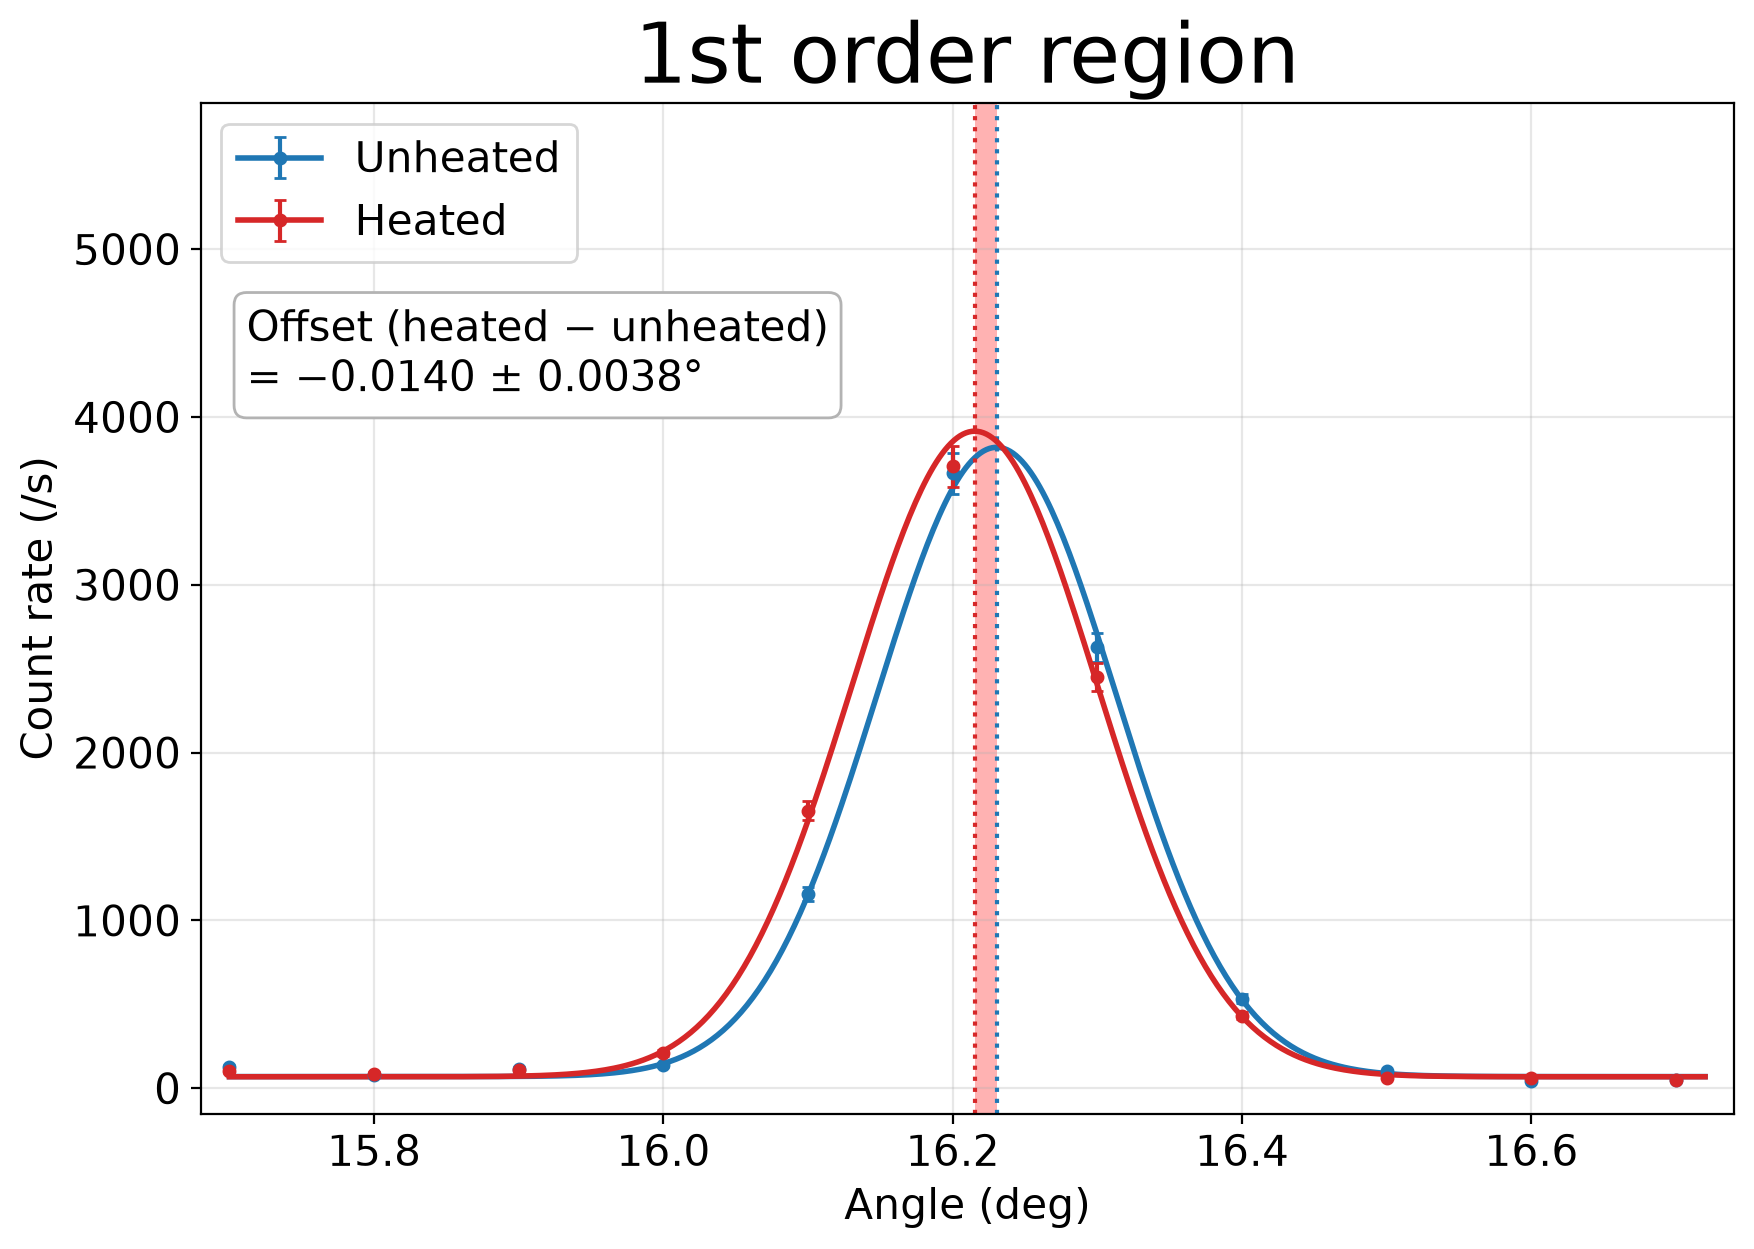
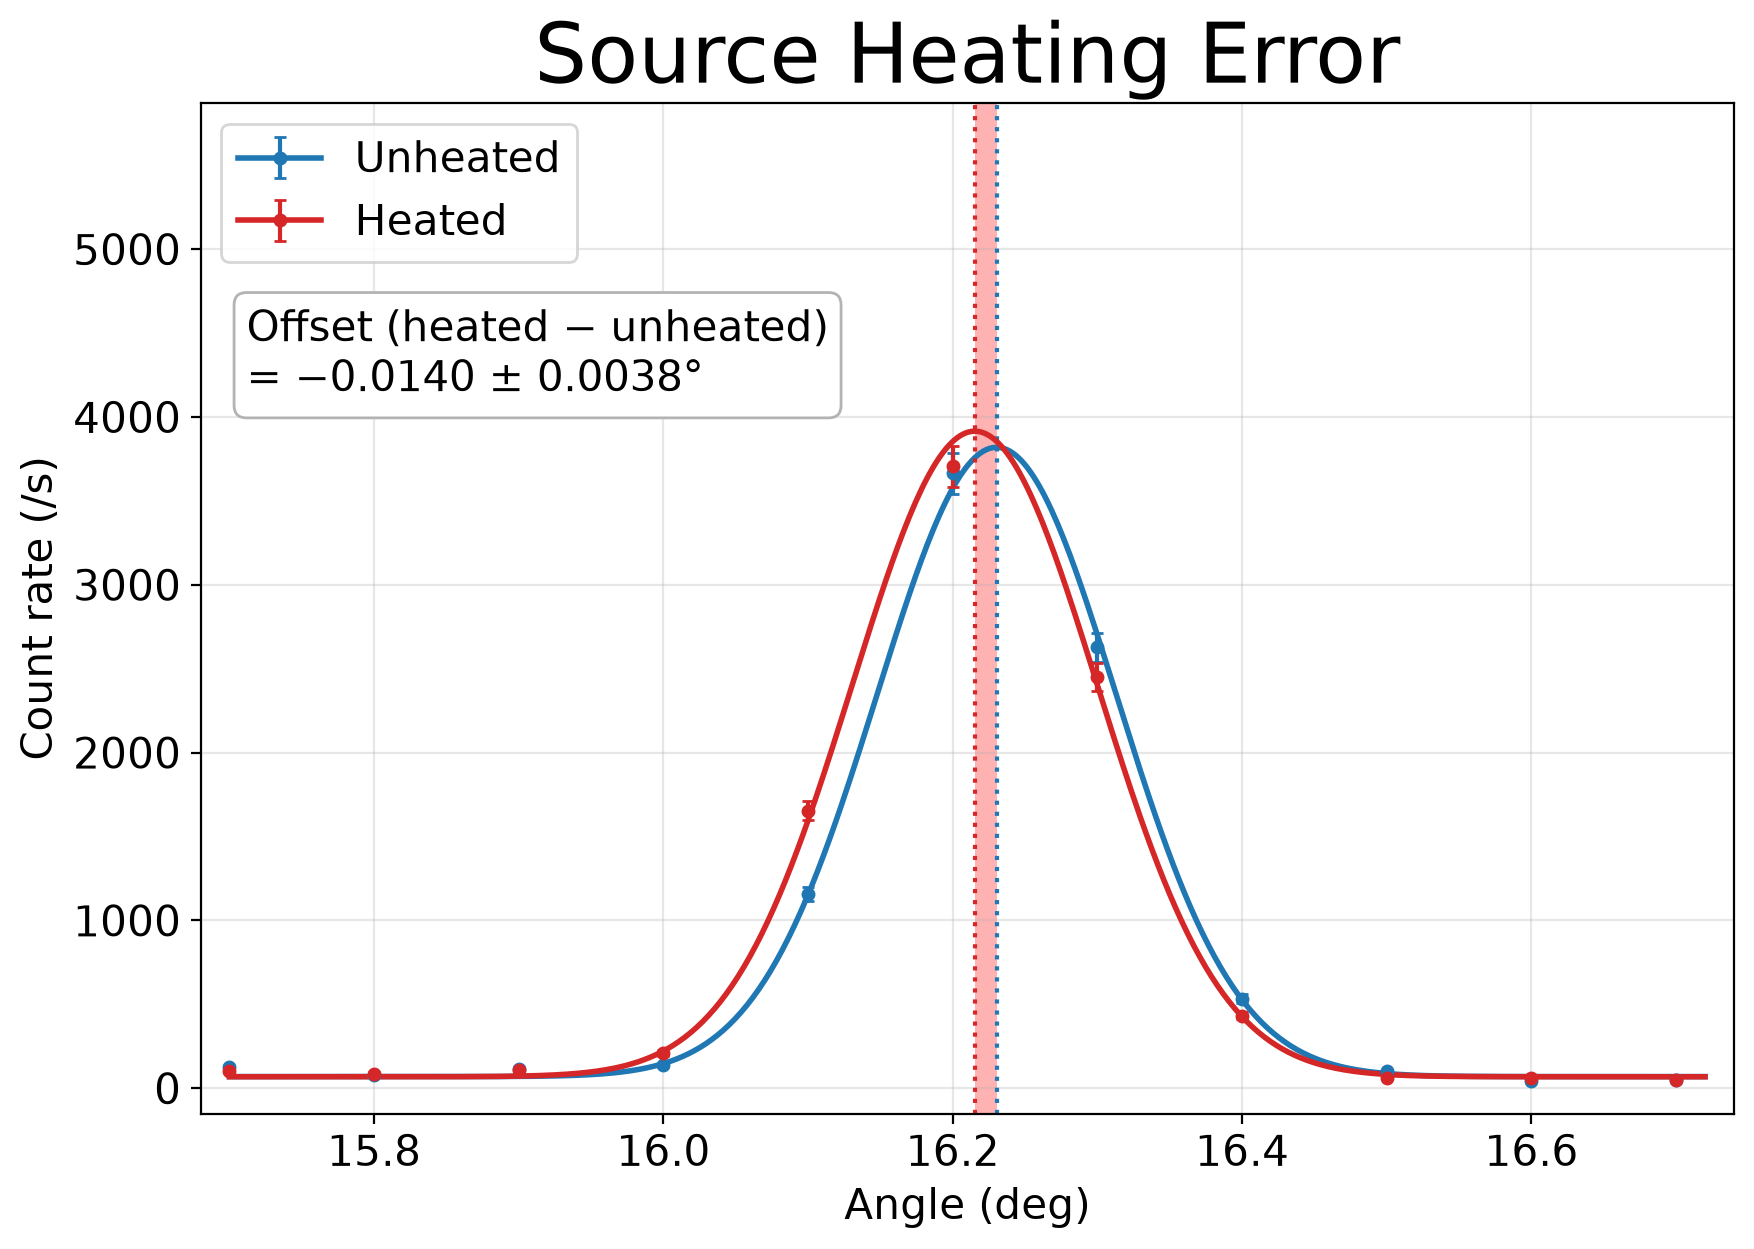
8.0

Changed region(s): [[0.3079, 0.0, 0.8005, 0.0937]]

diff --git a/peak_overlay.py b/peak_overlay.py
@@ -118,7 +118,7 @@ def fit_gaussian(scan, span):
 # a text box with offset_text. With scale_reference the reference (points and fit) is scaled to the other scan's
 # fitted peak height, for scans of different intensity; only the peak positions matter here.
 # Text sizes come from calib_style in save_figure.py. Returns the figure and each scan's (popt, perr).
-def plot_pair(reference, scan, labels, span, offset_text, scale_reference=False):
+def plot_pair(reference, scan, labels, span, offset_text, scale_reference=False, title="1st order region"):
     fits = [fit_gaussian(one_scan, span) for one_scan in (reference, scan)]
     peak_heights = [gaussian(popt[1], *popt) for popt, _ in fits]
     scales = [peak_heights[1] / peak_heights[0] if scale_reference else 1, 1]
@@ -140,7 +140,7 @@ def plot_pair(reference, scan, labels, span, offset_text, scale_reference=False)
     ax.set_ylim(top=1.5 * max(peak_heights[1], scales[0] * peak_heights[0]))
     ax.set_xlabel("Angle (deg)")
     ax.set_ylabel("Count rate (/s)")
-    ax.set_title("1st order region")
+    ax.set_title(title)
     ax.grid(alpha=0.3)
     fig.tight_layout()
     return fig, fits

diff --git a/temperature_error.py b/temperature_error.py
@@ -34,7 +34,8 @@ if __name__ == "__main__":
     plt.rcParams.update(calib_style)
     fig, gaussian_fits = plot_pair(unheated, heated, ["Unheated", "Heated"],
                                    (figure_start, first_order_region[1] + tuesday_offset),
-                                   shift_box_text("heated", "unheated", results["Kα n=1"]))
+                                   shift_box_text("heated", "unheated", results["Kα n=1"]),
+                                   title="Source Heating Error")
     (unheated_popt, unheated_perr), (heated_popt, heated_perr) = gaussian_fits
     print(f"Gaussian centres in the figure (one Gaussian each, display only): unheated {unheated_popt[1]:.4f} +/- "
           f"{unheated_perr[1]:.4f}, heated {heated_popt[1]:.4f} +/- {heated_perr[1]:.4f}, difference "
